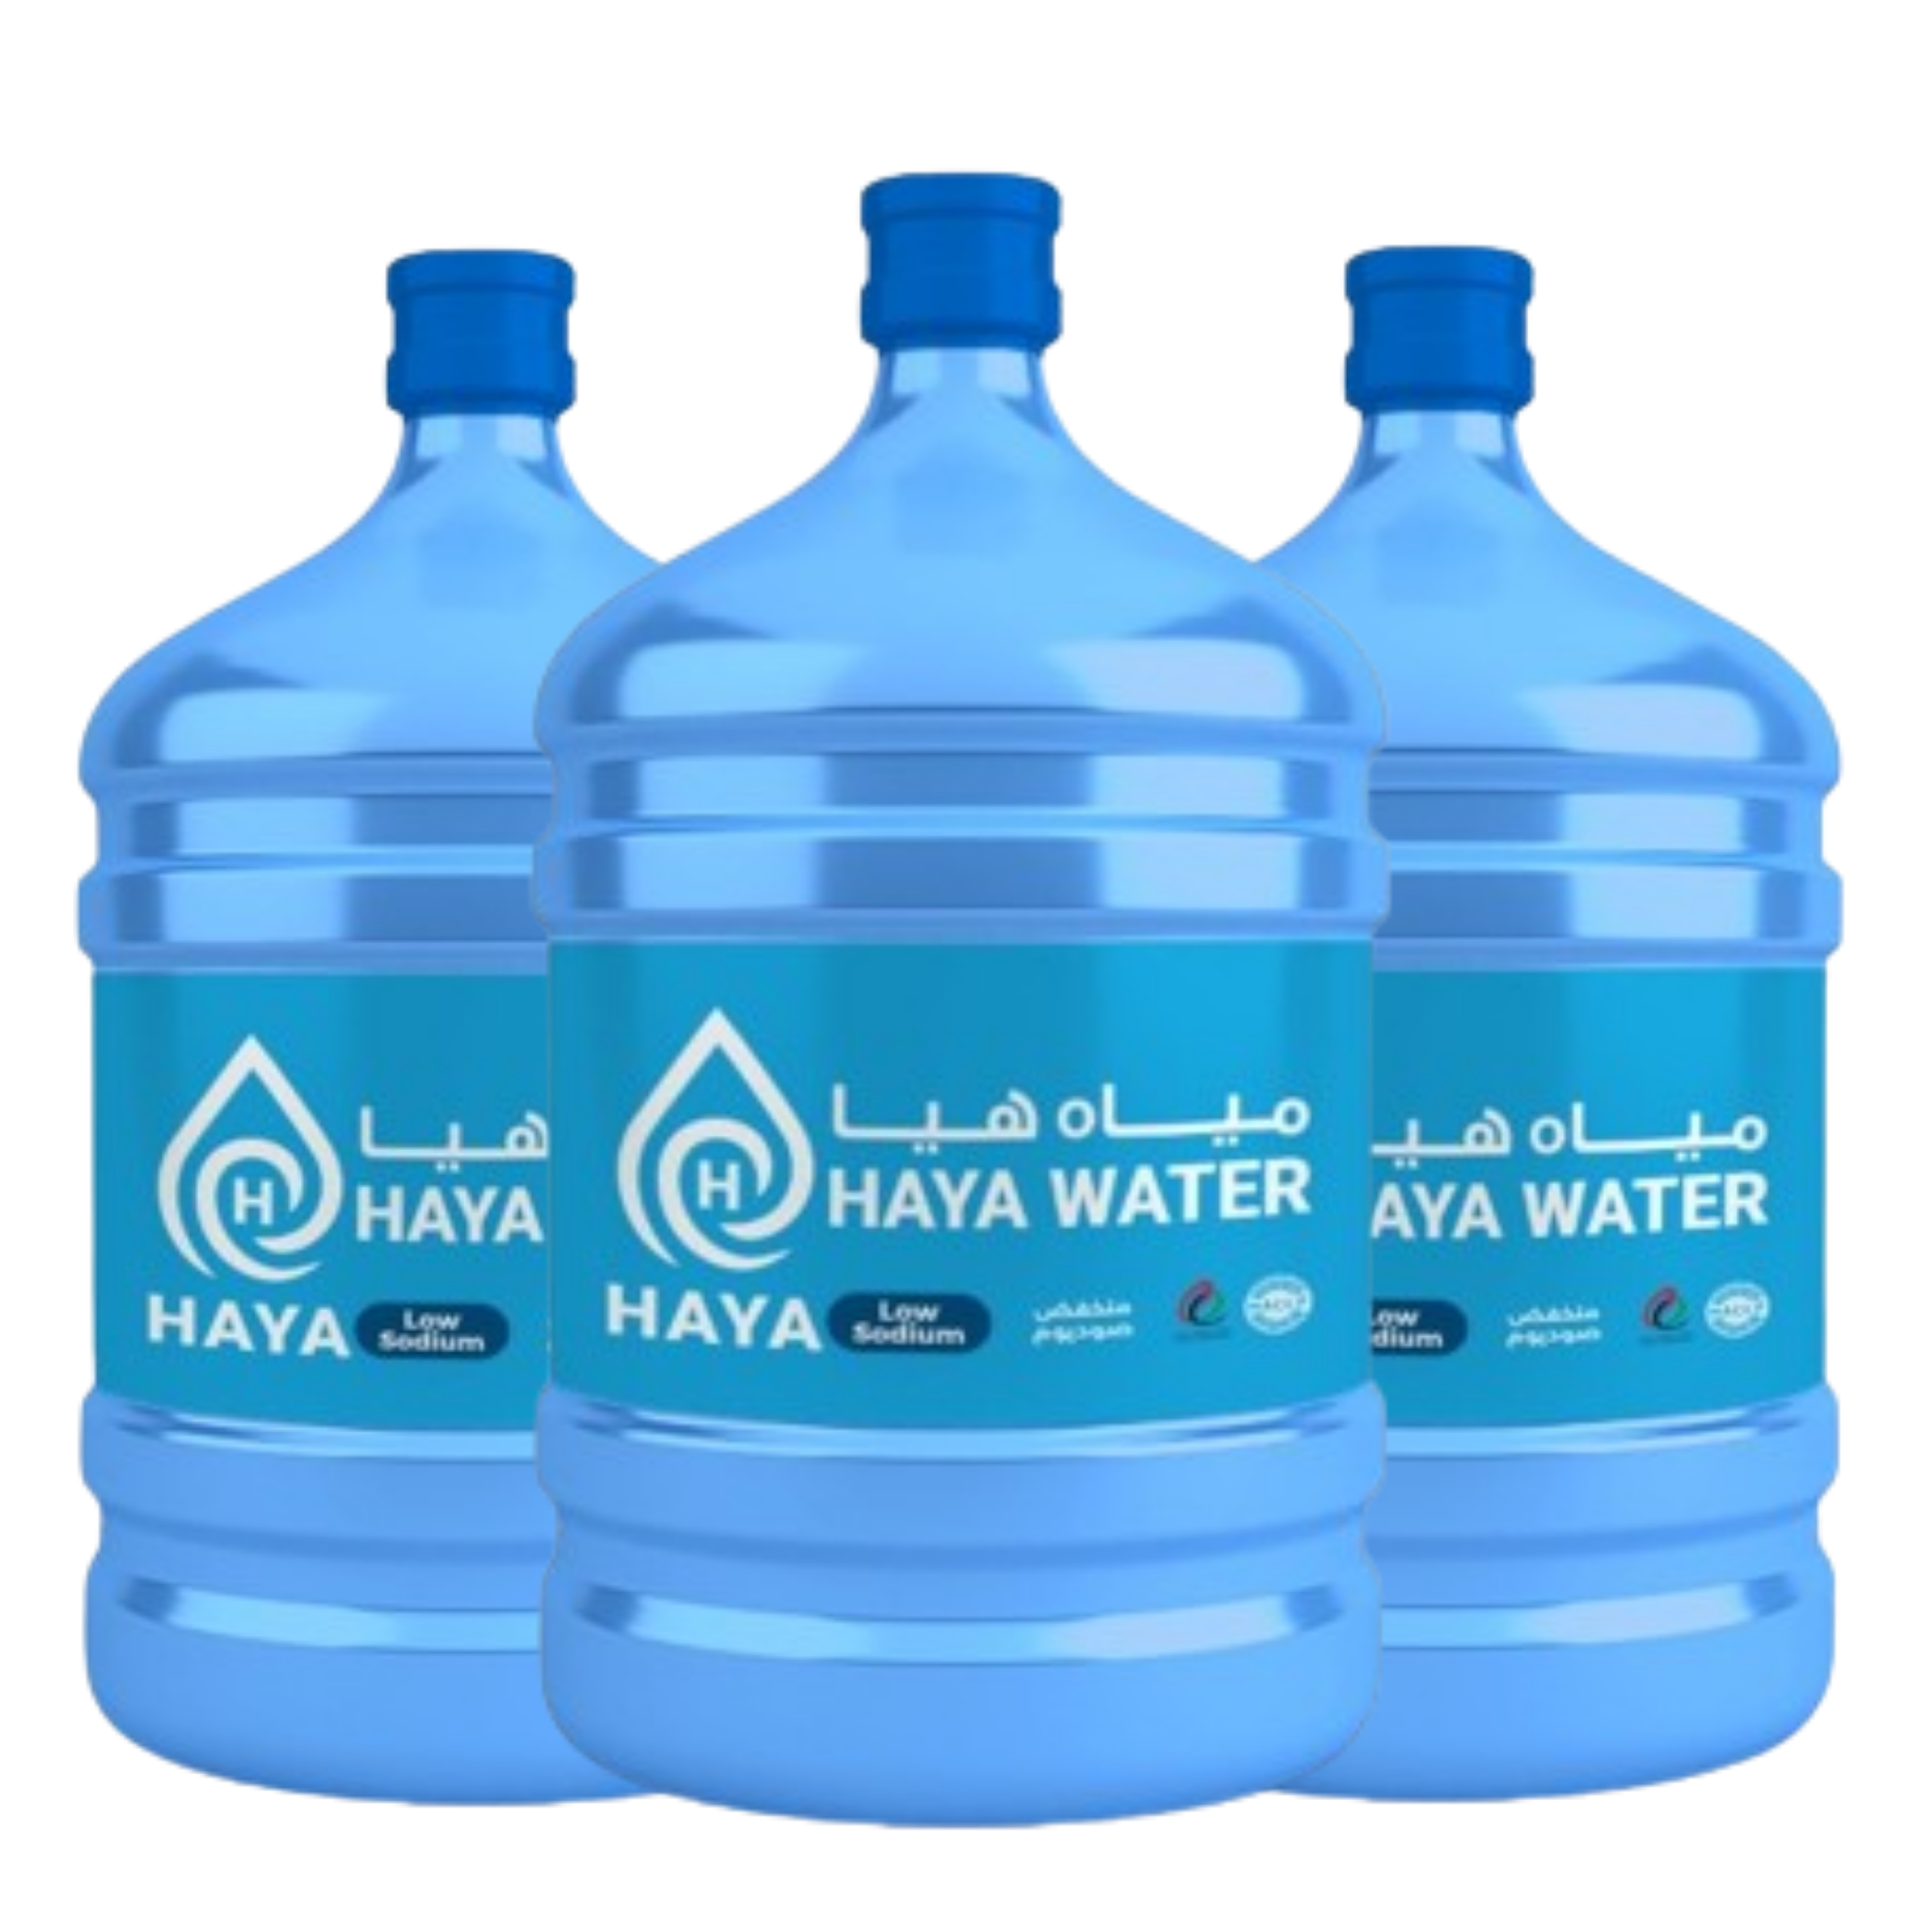
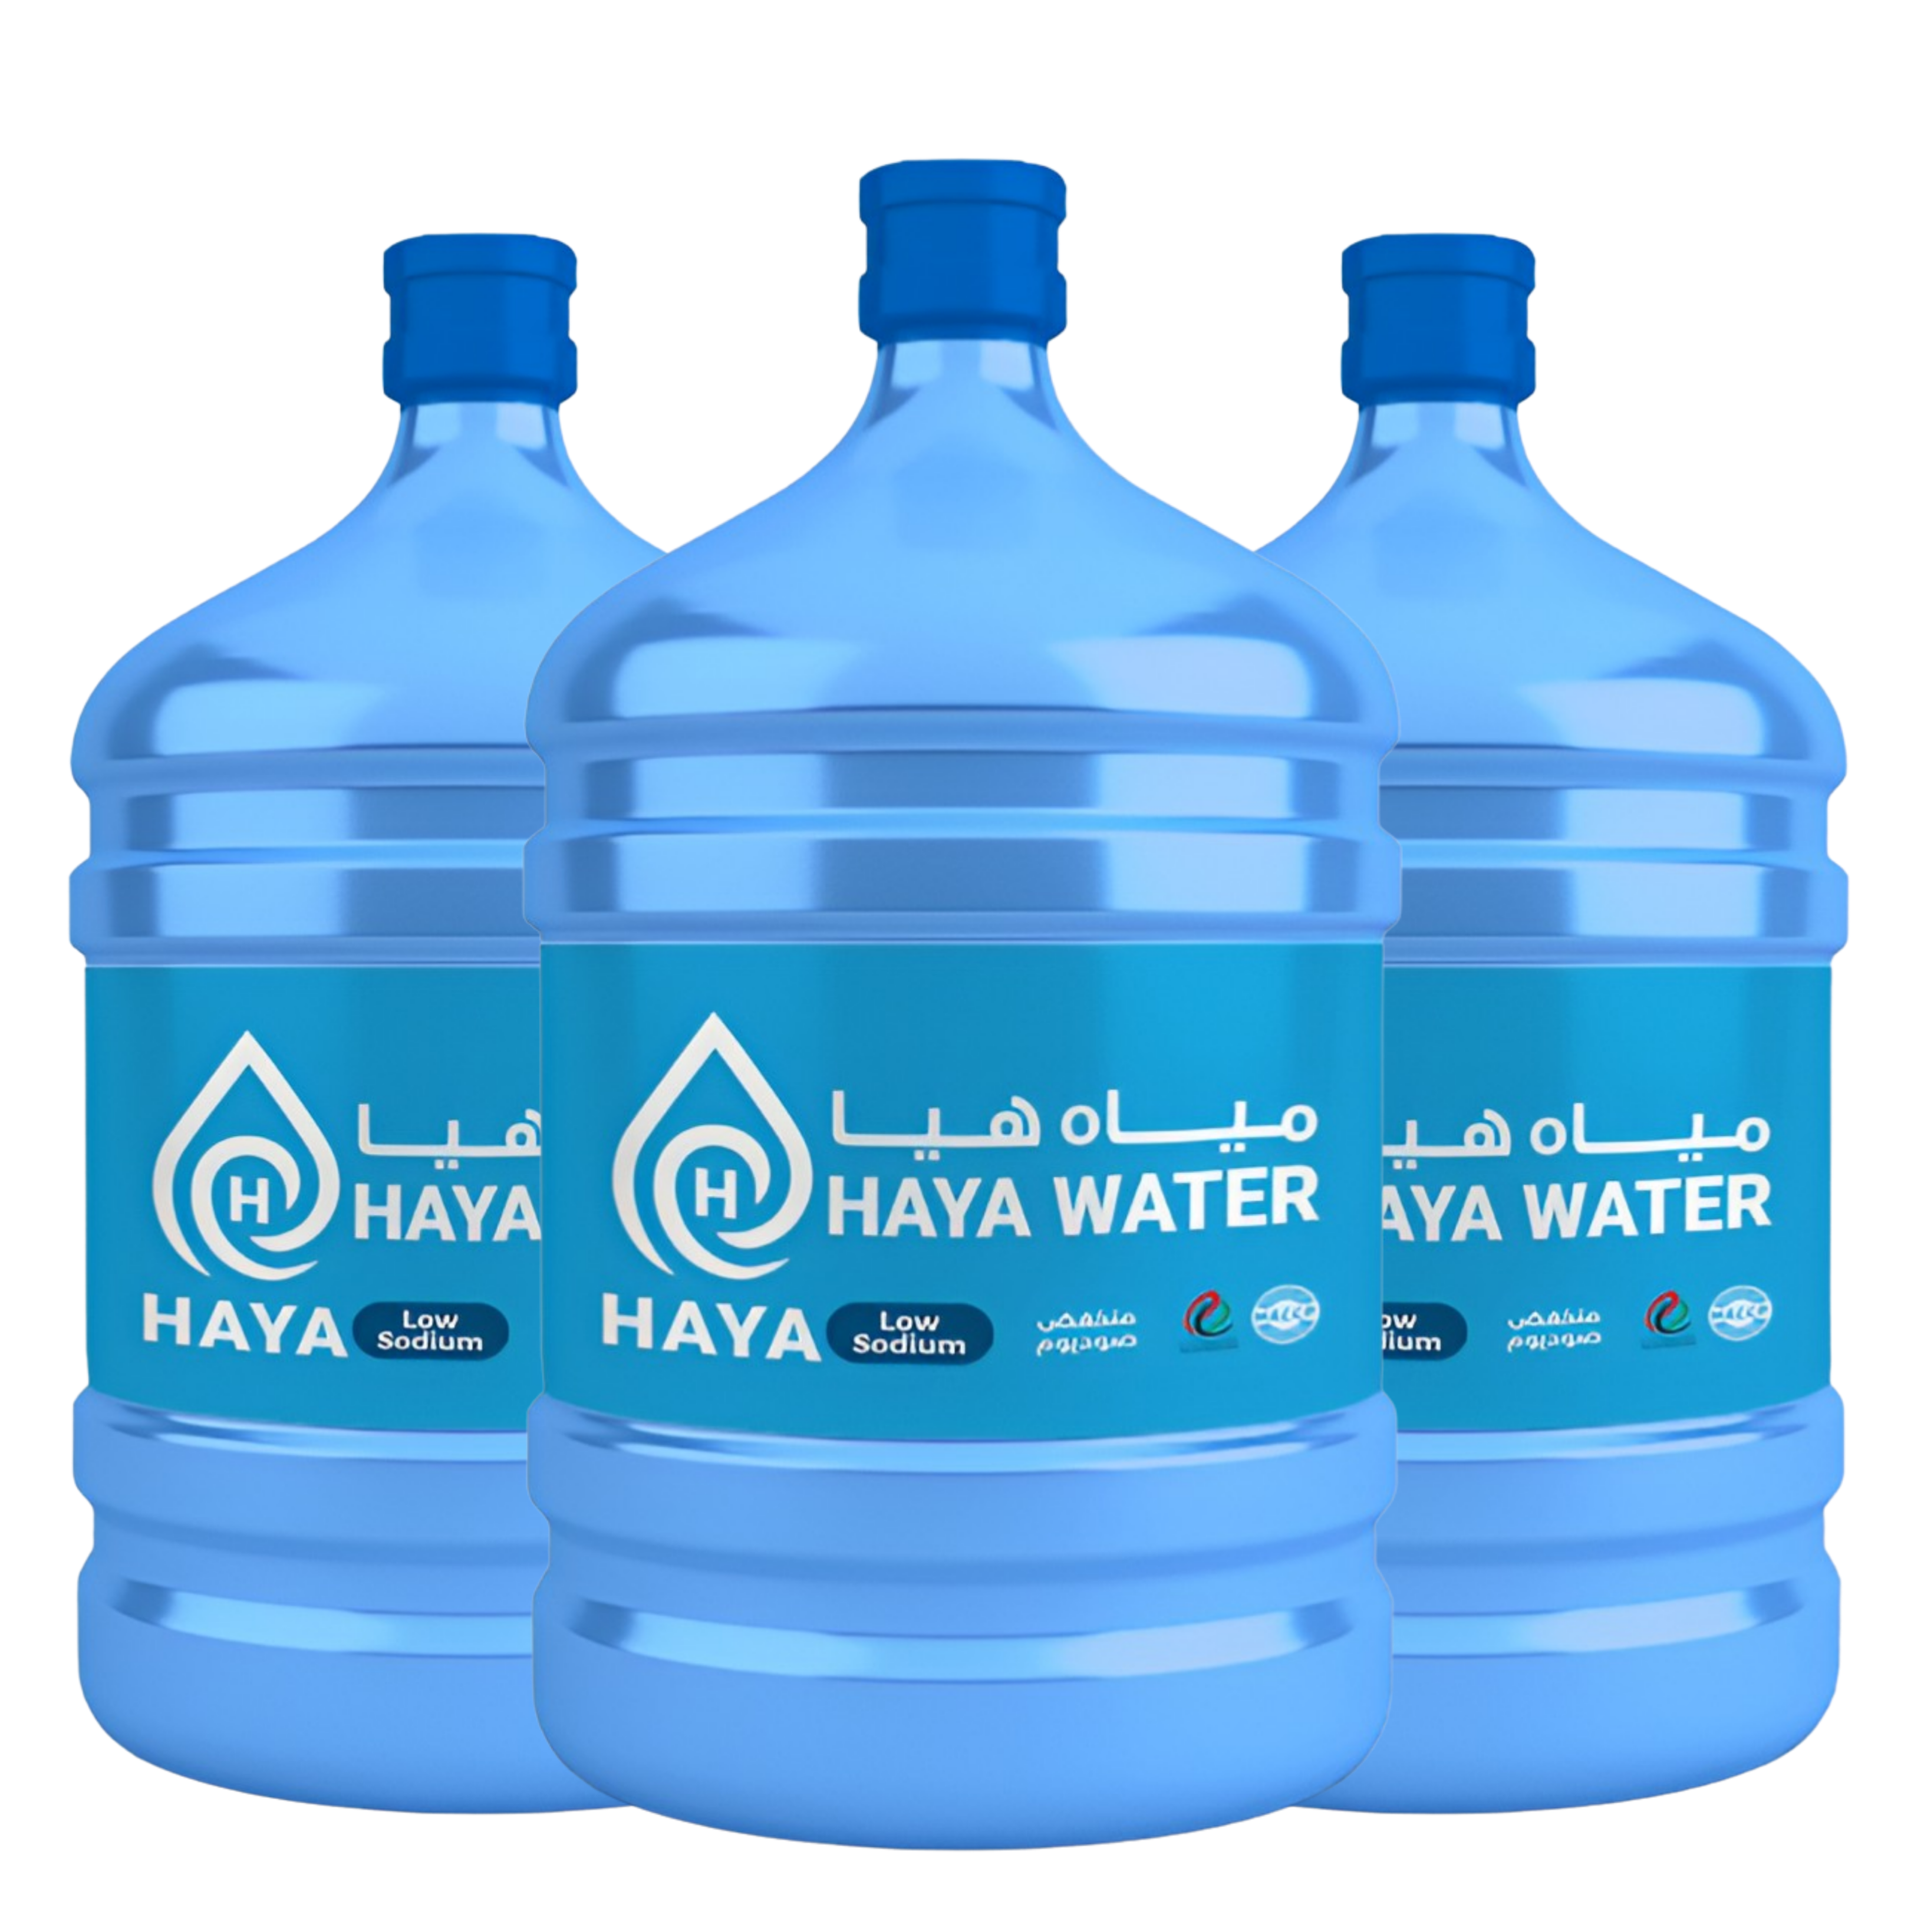
certificattion added, bagrounf clr changed

diff --git a/index.html b/index.html
@@ -43,8 +43,6 @@
           <li><a class="nav-link scrollto active" href="#hero">Home</a></li>
           <li><a class="nav-link scrollto" href="#about">About</a></li>
           <li><a class="nav-link scrollto" href="#services">Services</a></li>
-          <!-- <li><a class="nav-link scrollto " href="#portfolio">Portfolio</a></li> -->
-          <!-- <li><a class="nav-link scrollto" href="#team">Team</a></li> -->
           <!-- <li class="dropdown"><a href="#"><span>Drop Down</span> <i class="bi bi-chevron-down"></i></a>
             <ul>
               <li><a href="#">Drop Down 1</a></li>
@@ -65,7 +63,7 @@
           <li><a class="nav-link scrollto" href="#contact">Contact</a></li>
           <li><a class="getstarted scrollto" href="#about">Order Now</a></li>
         </ul>
-        <i class="bi bi-list mobile-nav-toggle"></i>
+        <i class="bi bi-list mobile-nav-toggle" ></i>
       </nav><!-- .navbar -->
 
     </div>
@@ -80,7 +78,7 @@
           <h1 data-aos="fade-down-right" data-aos-duration="1500">Haya Water Dealer Is Closer Than You Think</h1>
           <h2 data-aos="fade-right" data-aos-duration="1500">We are team Haya , Delivering reliable water solutions
           </h2>
-          <div data-aos="fade-up" data-aos-duration="1500"><a href="#about" class="btn-get-started scrollto">Order
+          <div data-aos="fade-up" data-aos-duration="1500"><a href="#contact" class="btn-get-started scrollto">Order
               Now</a></div>
         </div>
         <div class="col-xl-4 col-lg-6 order-1 order-lg-2 hero-img" data-aos="fade-left" data-aos-delay="500"
@@ -99,20 +97,21 @@
       <div class="container">
 
         <div class="row">
-          <div class="col-lg-6 order-1 order-lg-2" data-aos="zoom-in" data-aos-delay="150">
-            <img src="assets/img/about.jpg" class="img-fluid" alt="img not found">
+          <div class="col-lg-6 order-1 order-lg-2 about-img" >
+            <img data-aos="zoom-in" data-aos-delay="200" src="assets/img/about.jpg" class="img-fluid" alt="img not found">
           </div>
-          <div class="col-lg-6 pt-4 pt-lg-0 order-2 order-lg-1 content" data-aos="fade-right">
-            <h3>About us</h3>
-            <p class="fst-italic">
+          <div class="col-lg-6 pt-4 pt-lg-0 order-2 order-lg-1 content">
+            <h3 data-aos="fade-right">About us</h3>
+            <p class="fst-italic" data-aos="fade-in" data-aos-delay="150">
               Bettter Water Experience With Haya. We are team Haya , Delivering reliable water solutions
             </p>
-            <ul>
+            <ul data-aos="fade-in" data-aos-delay="200">
               <li><i class="bi bi-check-circle"></i> Purified water, We are team Haya</li>
               <li><i class="bi bi-check-circle"></i> Purified water, We are team Haya</li>
               <li><i class="bi bi-check-circle"></i> Purified water, We are team Haya</li>
             </ul>
-            <a href="#" class="read-more">Read More <i class="bi bi-long-arrow-right"></i></a>
+            <img data-aos="fade-in" data-aos-delay="250" src="./assets/img/certification.jpg" class="img-fluid row mb-3 p-0" width="200" alt="">
+            <a href="#services" data-aos="fade-up" class="read-more">Read More <i class="bi bi-long-arrow-right"></i></a>
           </div>
         </div>
 
@@ -125,7 +124,7 @@
 
         <marquee>
 
-          <h3>contact now - 00971 - 6 5757 469</h3>
+          <h4>Contact Now - (00971 - 6 5757 469)</h4>
 
         </marquee>
 
@@ -134,11 +133,11 @@
 
     <!-- ======= Services Section ======= -->
     <section id="services" class="services section-bg">
-      <div class="container" data-aos="fade-up">
+      <div class="container" >
 
         <div class="section-title">
-          <h2>Services</h2>
-          <p>Magnam dolores commodi suscipit. Necessitatibus eius consequatur ex aliquid fuga eum quidem. Sit sint
+          <h2 data-aos="fade-right">Services</h2>
+          <p data-aos="fade-left">Magnam dolores commodi suscipit. Necessitatibus eius consequatur ex aliquid fuga eum quidem. Sit sint
             consectetur velit. Quisquam quos quisquam cupiditate. Et nemo qui impedit suscipit alias ea. Quia fugiat sit
             in iste officiis commodi quidem hic quas.</p>
         </div>
@@ -175,11 +174,11 @@
 
     <!-- ======= Contact Section ======= -->
     <section id="contact" class="contact section-bg">
-      <div class="container" data-aos="fade-up">
+      <div class="container">
 
         <div class="section-title">
-          <h2>Contact</h2>
-          <p>Magnam dolores commodi suscipit. Necessitatibus eius consequatur ex aliquid fuga eum quidem. Sit sint
+          <h2 data-aos="fade-right">Contact</h2>
+          <p data-aos="fade-left">Magnam dolores commodi suscipit. Necessitatibus eius consequatur ex aliquid fuga eum quidem. Sit sint
             consectetur velit. Quisquam quos quisquam cupiditate. Et nemo qui impedit suscipit alias ea. Quia fugiat sit
             in iste officiis commodi quidem hic quas.</p>
         </div>
@@ -189,11 +188,13 @@
             <div class="info-box mb-4">
               <i class="bx bx-map"></i>
               <h3>Our Address</h3>
-              <p>B658 Ajman Street, Ajman, BB 878434</p>
+              <p>PO Box 301,
+                Ajman Ring Road,
+                Industrial Area - 2</p>
             </div>
           </div>
 
-          <div class="col-lg-3 col-md-6">
+          <div class="col-lg-3 col-md-6 order-1">
             <div class="info-box  mb-4">
               <i class="bx bx-envelope"></i>
               <h3>Email Us</h3>
@@ -205,7 +206,7 @@
             <div class="info-box  mb-4">
               <i class="bx bx-phone-call"></i>
               <h3>Call Us</h3>
-              <p>+1 5589 55488 55</p>
+              <p>00971 - 6 5757 469</p>
             </div>
           </div>
 
@@ -256,8 +257,8 @@
             <h4>Useful Links</h4>
             <ul>
               <li><i class="bx bx-chevron-right"></i> <a href="#">Home</a></li>
-              <li><i class="bx bx-chevron-right"></i> <a href="#">About us</a></li>
-              <li><i class="bx bx-chevron-right"></i> <a href="#">Services</a></li>
+              <li><i class="bx bx-chevron-right"></i> <a href="#about">About us</a></li>
+              <li><i class="bx bx-chevron-right"></i> <a href="#services">Services</a></li>
               <li><i class="bx bx-chevron-right"></i> <a href="#">Terms of service</a></li>
             </ul>
           </div>

diff --git a/assets/css/style.css b/assets/css/style.css
@@ -86,7 +86,7 @@ h6 {
   position: fixed;
   top: calc(50% - 30px);
   left: calc(50% - 30px);
-  border: 6px solid #4670f9;
+  border: 6px solid #4a75ff;
   border-top-color: #e7e4fe;
   border-radius: 50%;
   width: 60px;
@@ -381,7 +381,7 @@ h6 {
 .navbar-mobile a:hover,
 .navbar-mobile .active,
 .navbar-mobile li:hover>a {
-  color: #5846f9;
+  color: #147aff;
 }
 
 .navbar-mobile .getstarted,
@@ -429,7 +429,7 @@ h6 {
 #hero {
   width: 100%;
   height: 100vh;
-  background: linear-gradient(45deg, rgba(30, 120, 255, 0.9) 0%, rgba(101, 148, 255, 0.9) 100%), url("../img/hero-bg-1.jpg") center center no-repeat;
+  background: linear-gradient(45deg, rgba(28, 142, 255, 0.9) 0%, rgba(58, 176, 255, 0.9) 100%), url("../img/hero-bg-1.jpg") center center no-repeat;
   background-size: cover;
 }
 
@@ -472,7 +472,7 @@ h6 {
 
 #hero .btn-get-started:hover {
   background: #fff;
-  color: #2f36ff;
+  color: #1e5aff;
 }
 
 #hero .animated {
@@ -590,6 +590,14 @@ section {
 /*--------------------------------------------------------------
 # About
 --------------------------------------------------------------*/
+/* mobile view */
+
+@media screen and (max-width: 480px) {
+  .about-img{
+    padding-bottom: 5px;
+  }
+}
+
 .about {
   padding: 120px 0;
   min-height: fit-content;
@@ -613,7 +621,7 @@ section {
 .about .content ul i {
   font-size: 20px;
   padding-right: 4px;
-  color: #00ff1a;
+  color: #00cb22;
 }
 
 .about .content p:last-child {
@@ -630,12 +638,12 @@ section {
   border-radius: 5px;
   transition: 0.5s;
   color: #fff;
-  background: linear-gradient(45deg, #1a44ff 0%, #4986ff 100%);
+  background: linear-gradient(45deg, #2580ff 0%, #518bff 100%);
   position: relative;
 }
 
 .about .content .read-more:hover {
-  background: linear-gradient(180deg, #4986ff 0%, #557dff 100%);
+  background: linear-gradient(180deg, #518bff 0%, #2580ff 100%);
 }
 
 .about .content .read-more i {
@@ -649,7 +657,7 @@ section {
 # update
 --------------------------------------------------------------*/
 .news {
-  background: linear-gradient(90deg, rgba(74, 186, 255, 0.796) 0%, rgba(48, 148, 255, 0.708) 100%), url("../img/update-bg.png") center center no-repeat;
+  background: linear-gradient(90deg, #50bcffcb 0%, rgba(61, 161, 255, 0.708) 100%), url("../img/update-bg.png") center center no-repeat;
   padding: 80px 0 60px 0;
   color: aliceblue;
 }
@@ -657,6 +665,7 @@ section {
 /*--------------------------------------------------------------
 # Services
 --------------------------------------------------------------*/
+
 .services{
   padding: 120px 0;
 }
@@ -678,123 +687,12 @@ section {
   position: relative;
 }
 
-.services .icon-box .icon i {
-  font-size: 36px;
-  transition: 0.5s;
-  position: relative;
-}
-
-.services .icon-box .icon svg {
-  position: absolute;
-  top: 0;
-  left: 0;
-}
-
-.services .icon-box .icon svg path {
-  transition: 0.5s;
-  fill: #f5f5f5;
-}
-
-.services .icon-box h4 {
-  font-weight: 600;
-  margin: 10px 0 15px 0;
-  font-size: 22px;
-}
-
-.services .icon-box h4 a {
-  color: #2c4964;
-  transition: ease-in-out 0.3s;
-}
-
-.services .icon-box p {
-  line-height: 24px;
-  font-size: 14px;
-  margin-bottom: 0;
-}
-
-.services .icon-box:hover {
-  border-color: #fff;
-  box-shadow: 0px 0 25px 0 rgba(0, 0, 0, 0.1);
-}
-
-.services .iconbox-blue i {
-  color: #47aeff;
-}
-
-.services .iconbox-blue:hover .icon i {
-  color: #fff;
-}
-
-.services .iconbox-blue:hover .icon path {
-  fill: #47aeff;
-}
-
-.services .iconbox-orange i {
-  color: #ffa76e;
-}
-
-.services .iconbox-orange:hover .icon i {
-  color: #fff;
-}
-
-.services .iconbox-orange:hover .icon path {
-  fill: #ffa76e;
-}
-
-.services .iconbox-pink i {
-  color: #e80368;
-}
-
-.services .iconbox-pink:hover .icon i {
-  color: #fff;
-}
-
-.services .iconbox-pink:hover .icon path {
-  fill: #e80368;
-}
-
-.services .iconbox-yellow i {
-  color: #ffbb2c;
-}
-
-.services .iconbox-yellow:hover .icon i {
-  color: #fff;
-}
-
-.services .iconbox-yellow:hover .icon path {
-  fill: #ffbb2c;
-}
-
-.services .iconbox-red i {
-  color: #ff5828;
-}
-
-.services .iconbox-red:hover .icon i {
-  color: #fff;
-}
-
-.services .iconbox-red:hover .icon path {
-  fill: #ff5828;
-}
-
-.services .iconbox-teal i {
-  color: #11dbcf;
-}
-
-.services .iconbox-teal:hover .icon i {
-  color: #fff;
-}
-
-.services .iconbox-teal:hover .icon path {
-  fill: #11dbcf;
-}
-
 
 /*--------------------------------------------------------------
 # Contact
 --------------------------------------------------------------*/
 .contact{
-  padding: 120px 0;
+  padding-bottom: 140px;
 }
 
 .contact .info-box {
@@ -807,7 +705,7 @@ section {
 
 .contact .info-box i {
   font-size: 32px;
-  color: #5846f9;
+  color: #3f8cff;
   border-radius: 50%;
   padding: 8px;
 }

diff --git a/assets/js/main.js b/assets/js/main.js
@@ -192,35 +192,7 @@
     }
   });
 
-  /**
-   * Porfolio isotope and filter
-   */
-  window.addEventListener('load', () => {
-    let portfolioContainer = select('.portfolio-container');
-    if (portfolioContainer) {
-      let portfolioIsotope = new Isotope(portfolioContainer, {
-        itemSelector: '.portfolio-item'
-      });
 
-      let portfolioFilters = select('#portfolio-flters li', true);
-
-      on('click', '#portfolio-flters li', function(e) {
-        e.preventDefault();
-        portfolioFilters.forEach(function(el) {
-          el.classList.remove('filter-active');
-        });
-        this.classList.add('filter-active');
-
-        portfolioIsotope.arrange({
-          filter: this.getAttribute('data-filter')
-        });
-        portfolioIsotope.on('arrangeComplete', function() {
-          AOS.refresh()
-        });
-      }, true);
-    }
-
-  });
 
   /**
    * Initiate portfolio lightbox 
